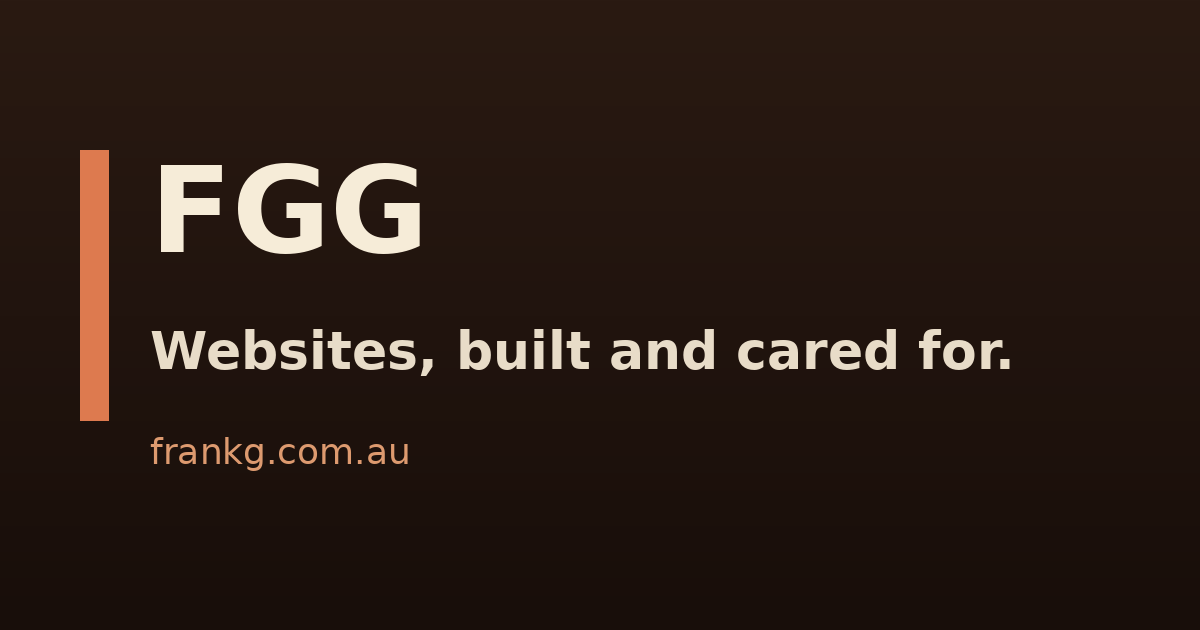
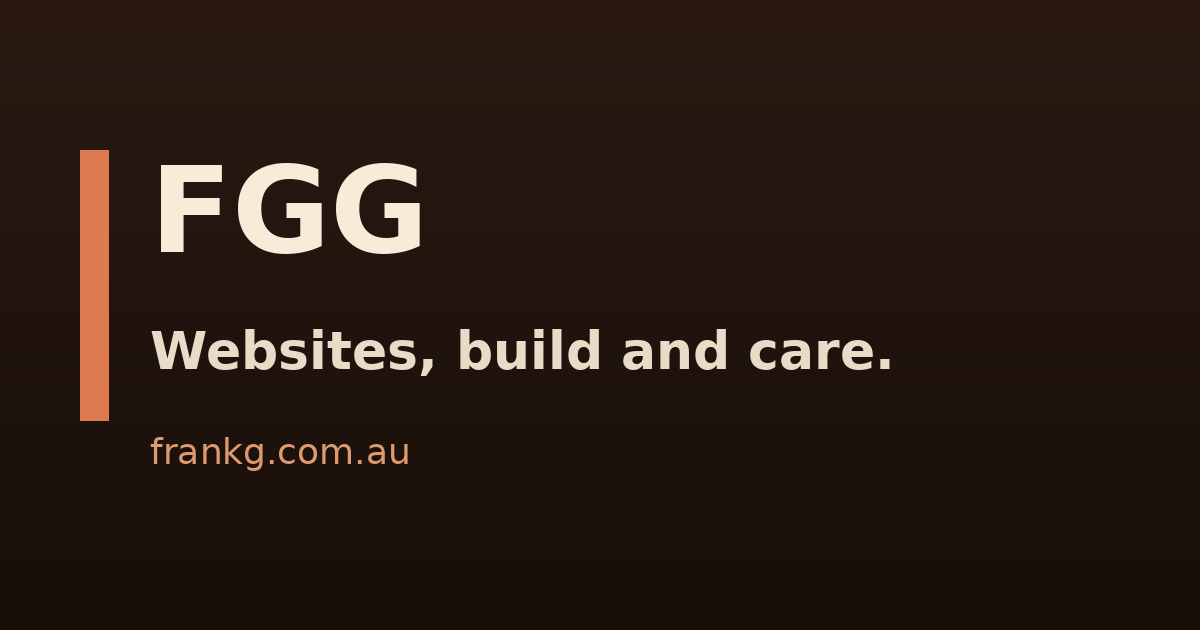
Tagline, db desc RSVPs/comments, SEO setup in build, ACN footer, delete button, login panel drives login state

Changed region(s): [[0.4625, 0.5127, 0.8633, 0.6032]]

diff --git a/public/index.html b/public/index.html
@@ -52,7 +52,7 @@
 
   <main>
     <section class="hero">
-      <h1>Websites, built and cared for.</h1>
+      <h1>Websites, build and care.</h1>
       <p class="lede">I'm Frank Gao, a web developer in Melbourne. I build websites and apps for businesses.</p>
       <a class="button" href="#quote">Try it</a>
     </section>
@@ -64,12 +64,12 @@
 
         <div class="feature locked">
           <span class="feature-head"><b>Standard</b><em>$200</em></span>
-          <div class="plain-ex">Custom design · Media · Gallery · Draft + Revision process · Receiving emails · Desktop and Mobile optimized · Fast & secure · Form · Dynamic page elements · UI polish · Favicon</div>
+          <div class="plain-ex">Custom design · Media · Gallery · Draft + Revision process · Receiving emails · Desktop and Mobile optimized · Fast & secure · SEO setup · Form · Dynamic page elements · UI polish · Favicon</div>
         </div>
 
         <div class="feature locked">
           <span class="feature-head"><b>Care</b><em>$200 / y</em></span>
-          <div class="plain-ex">Domain · Hosting · Backups · Security · SEO · Quarterly Traffic Reports · Code access · Yearly revision</div>
+          <div class="plain-ex">Domain · Hosting · Backups · Security · Quarterly Traffic Reports · Code access · Yearly revision</div>
         </div>
 
         <div class="feature selected default-on">
@@ -138,7 +138,7 @@
 
         <div class="feature t22" data-feature="db">
           <span class="feature-head"><b>Database</b><em>+$100</em></span>
-          <span class="feature-desc">Persistent information. Submissions · Listings · Bookings · Inventory · Search · Records · Comments & likes · Match History · Settings.</span>
+          <span class="feature-desc">Persistent info. Submissions · Listings · RSVPs · Inventory · Search · Match History · Comments · Settings.</span>
           <div class="wall" onclick="event.stopPropagation()">
             <div class="wall-top">
               <div class="avatar-row" id="avatarRow">
@@ -242,7 +242,7 @@
   </main>
 
   <footer>
-    <p>FGG Pty Ltd · Melbourne</p>
+    <p>FGG Pty Ltd · Melbourne · ACN 647590369</p>
   </footer>
 
   <div class="work-detail" id="workDetail" hidden>
@@ -329,6 +329,7 @@
 
       setTotal(total);
       $('revCount').textContent = state.fancy ? 3 : 2;
+      syncLogin();
 
       document.body.classList.toggle('fancy', state.fancy);
       document.documentElement.classList.toggle('fancy', state.fancy);
@@ -423,12 +424,17 @@
       reader.readAsDataURL(file);
     });
 
-    // ---- simulated login (touches the wall + the shop) ----
+    // ---- login state follows the Login panel: click logs in, deselect logs out ----
     let loggedIn = false;
-    $('loginSim').addEventListener('click', () => {
-      loggedIn = !loggedIn;
+    function syncLogin() {
+      if (loggedIn === state.login) return;
+      loggedIn = state.login;
       document.body.classList.toggle('logged-in', loggedIn);
       $('loginSim').textContent = loggedIn ? t('Log Out') : t('Log In');
+    }
+    $('loginSim').addEventListener('click', () => {
+      state.login = !state.login;
+      update();
     });
 
     // ---- shop kind carousel ----
@@ -585,7 +591,7 @@
           ? data.comments.map((c) => `
             <div class="wall-item"><span class="av-big">${escapeHtml(c.avatar)}</span>
             <div class="wall-text"><b>${escapeHtml(c.name)}</b><p>${escapeHtml(c.body)}</p></div>
-            <button class="wall-del" type="button" data-id="${c.id}" title="delete">×</button></div>`).join('')
+            <button class="wall-del" type="button" data-id="${c.id}" title="delete">delete</button></div>`).join('')
           : '<p class="note">No comments yet — be the first.</p>';
         void $('wallList').offsetWidth;
         $('wallList').classList.add('fade-in');
@@ -632,14 +638,14 @@
 
     // ---- language toggle (EN / VI) ----
     const VI = {
-      "Websites, built and cared for.": "Website được dựng nên và chăm chút.",
+      "Websites, build and care.": "Website: dựng và chăm sóc.",
       "I'm Frank Gao, a web developer in Melbourne. I build websites and apps for businesses.": "Tôi là Frank Gao, lập trình viên web tại Melbourne. Tôi làm website và ứng dụng cho doanh nghiệp.",
       "Try it": "Dùng thử",
       "Build your package": "Tạo báo giá",
       "Standard": "Tiêu chuẩn",
-      "Custom design · Media · Gallery · Draft + Revision process · Receiving emails · Desktop and Mobile optimized · Fast & secure · Form · Dynamic page elements · UI polish · Favicon": "Thiết kế riêng · Media · Thư viện ảnh · Quy trình nháp + hiệu chỉnh · Nhận email · Tối ưu máy tính & điện thoại · Nhanh & bảo mật · Form · Thành phần động · Tinh chỉnh giao diện · Favicon",
+      "Custom design · Media · Gallery · Draft + Revision process · Receiving emails · Desktop and Mobile optimized · Fast & secure · SEO setup · Form · Dynamic page elements · UI polish · Favicon": "Thiết kế riêng · Media · Thư viện ảnh · Quy trình nháp + hiệu chỉnh · Nhận email · Tối ưu máy tính & điện thoại · Nhanh & bảo mật · SEO setup · Form · Thành phần động · Tinh chỉnh giao diện · Favicon",
       "Care": "Chăm sóc",
-      "Domain · Hosting · Backups · Security · SEO · Quarterly Traffic Reports · Code access · Yearly revision": "Tên miền · Hosting · Sao lưu · Bảo mật · SEO · Báo cáo lưu lượng hằng quý · Mã nguồn · Hiệu chỉnh hằng năm",
+      "Domain · Hosting · Backups · Security · Quarterly Traffic Reports · Code access · Yearly revision": "Tên miền · Hosting · Sao lưu · Bảo mật · Báo cáo lưu lượng hằng quý · Mã nguồn · Hiệu chỉnh hằng năm",
       "Revision": "Hiệu chỉnh",
       "sessions included, draft edit design process. ~60-90 mins a session.": "buổi bao gồm, quy trình nháp – sửa – thiết kế. ~60–90 phút mỗi buổi.",
       "sessions": "buổi",
@@ -682,7 +688,7 @@
       "purchased": "đã mua",
       "logins · progress · gated content": "đăng nhập · tiến độ · nội dung riêng",
       "Database": "Cơ sở dữ liệu",
-      "Persistent information. Submissions · Listings · Bookings · Inventory · Search · Records · Comments & likes · Match History · Settings.": "Dữ liệu lưu trữ. Đơn gửi · Danh sách · Đặt chỗ · Tồn kho · Tìm kiếm · Hồ sơ · Bình luận & lượt thích · Lịch sử đấu · Cài đặt.",
+      "Persistent info. Submissions · Listings · RSVPs · Inventory · Search · Match History · Comments · Settings.": "Dữ liệu lưu trữ. Đơn gửi · Danh sách · RSVPs · Tồn kho · Tìm kiếm · Lịch sử đấu · Bình luận · Cài đặt.",
       "🌟 signed in": "🌟 đã đăng nhập",
       "Send": "Gửi",
       "comments": "bình luận",
